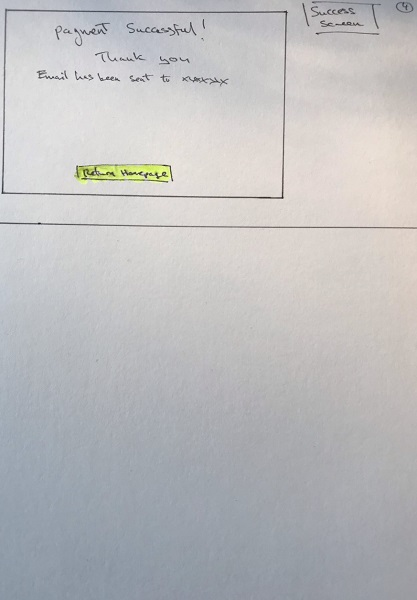
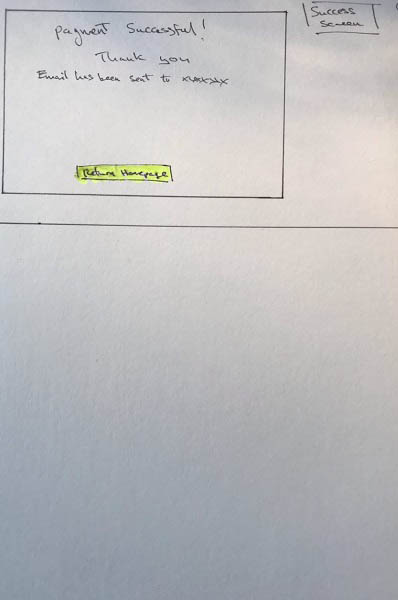
added pg4 for nav

diff --git a/portfolio/ux.html b/portfolio/ux.html
@@ -285,7 +285,7 @@ using.</p>
        <div class="col-xs-6 col-sm-4 col-md-4"><img src="../assets/images/uxnav1.jpg" style="background-color:#FFF; border:1px solid grey" class="img-responsive " alt="flowsketch"></div>
       <div class="col-xs-6 col-sm-4 col-md-4"><img src="../assets/images/uxnav2.jpg" style="background-color:#FFF; border:1px solid grey" class="img-responsive" alt="flowdiagram"></div>
        <div class="col-xs-6 col-sm-4 col-md-4"><img src="../assets/images/uxnav3.jpg" style="background-color:#FFF; border:1px solid grey" class="img-responsive" alt="flowdiagram"></div>
-     
+     <div class="col-xs-6 col-sm-4 col-md-4"><img src="../assets/images/uxnav4.jpg" style="background-color:#FFF; border:1px solid grey" class="img-responsive" alt="flowdiagram"></div>
     </div> <!-- close row -->
    </div> <!-- close container -->
    
